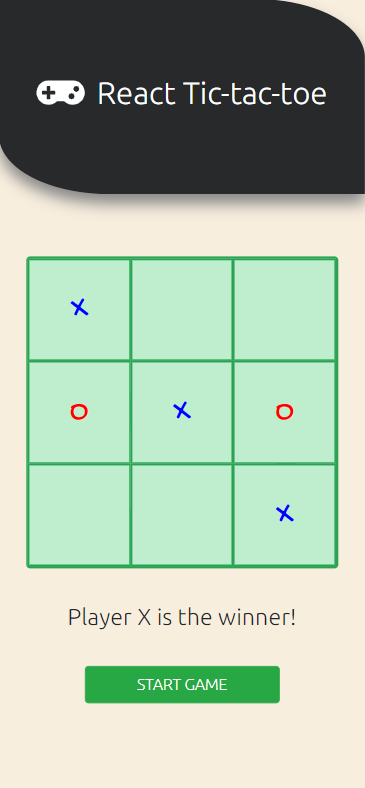
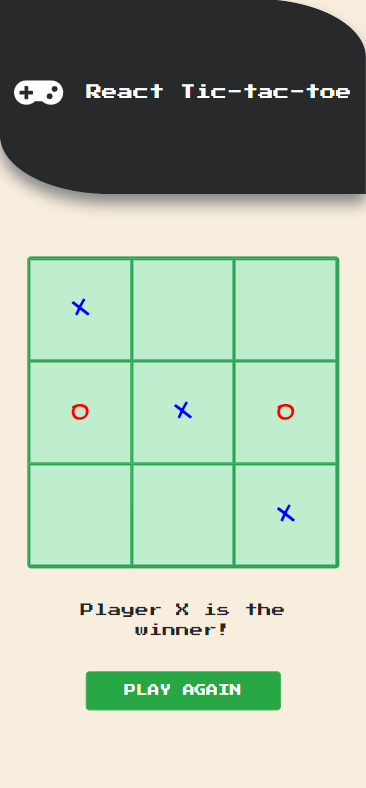
changed tic tac toe pic

diff --git a/source/assets/stylesheets/config/_fonts.scss b/source/assets/stylesheets/config/_fonts.scss
@@ -1,6 +1,10 @@
 // Import Google fonts
-@import url('https://fonts.googleapis.com/css?family=Nunito:400,700|Work+Sans:400,700&display=swap');
 @import url('https://fonts.googleapis.com/css2?family=Rajdhani&display=swap');
+// Extra fonts
+@import url('https://fonts.googleapis.com/css2?family=Lato:wght@300&family=Playfair+Display&display=swap');
+@import url('https://fonts.googleapis.com/css2?family=Playfair+Display&display=swap');
+@import url('https://fonts.googleapis.com/css2?family=Bangers&display=swap');
+@import url('https://fonts.googleapis.com/css2?family=Poppins:wght@200&display=swap');
 
 // Define fonts for body and headers
 $body-font: "Rajdhani", "Helvetica", "sans-serif";
